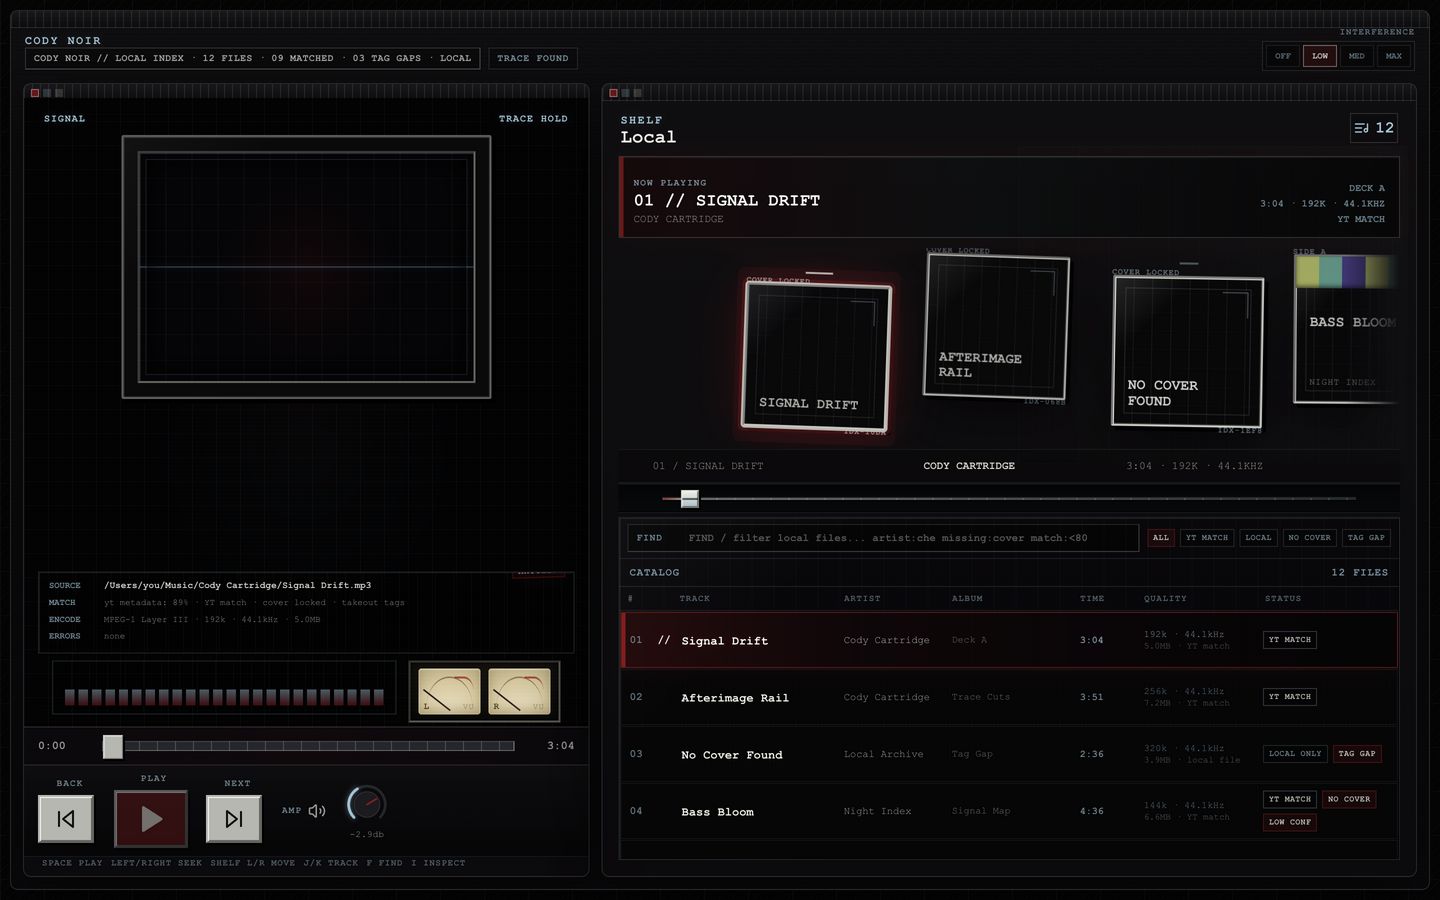
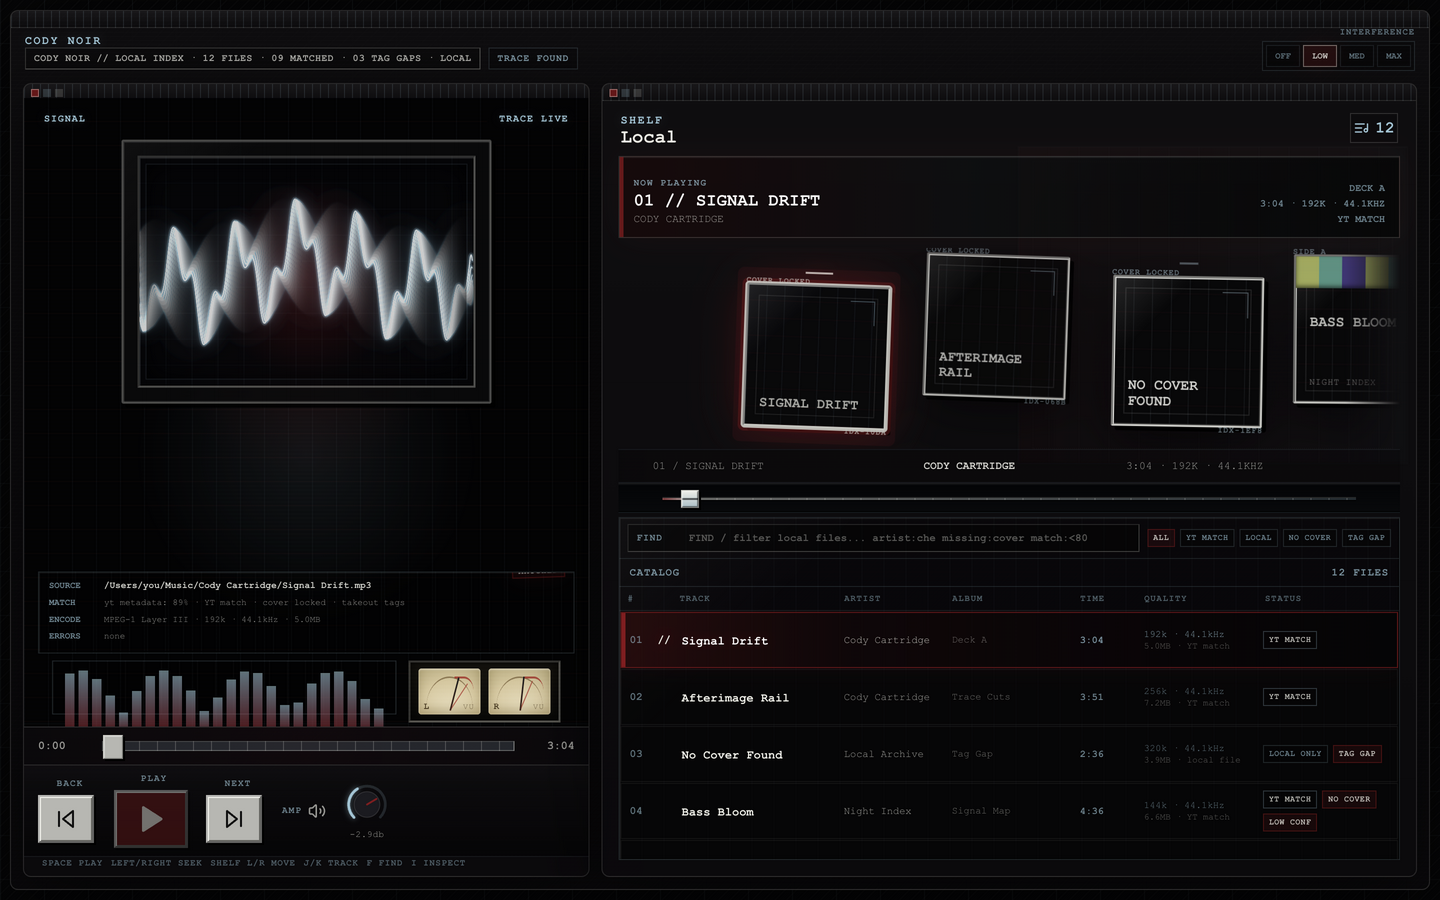
Reconcile store artifacts + showcase new hardware UI
- Rename scope `amplitude` var → `waveHeight` so check:app-privacy's
  analytics-SDK guard (matches /amplitude/i) stops false-positiving.
- Listing (APP_STORE_LISTING.md): feature the live reactive oscilloscope,
  analog VU meters, rotary amp knob, and cassette labels in promotional
  text / description / features / keywords (all within field limits).
- Add store-poster mode (store-poster=1): paints a representative phosphor
  trace + deflected VU into the paused demo so marketing screenshots show
  the reactive hardware. Kept behind its own flag so smoke:store (store-demo
  only) is unaffected; poster surface reads TRACE LIVE for coherence.
- Screenshot capture + checker updated to use store-poster=1; regenerated
  all three 1440x900 screenshots.
- Regenerated packet / copy-map / review-brief / blocker report.

Verification: build clean; smoke:store 4/4; smoke:a11y 10/10; app-privacy
56/0; artifact-privacy 22/0; electron-security 52/0; check:store-copy 49/0;
check:screenshots 56/0. Blockers unchanged at 17 (all account/machine-side).

Changed region(s): [[0.0938, 0.2178, 0.3438, 0.4667], [0.0938, 0.1244, 0.3438, 0.1867], [0.0312, 0.7467, 0.2812, 0.8089]]

diff --git a/src/App.tsx b/src/App.tsx
@@ -161,6 +161,17 @@ function isStoreDemoMode() {
   return new URLSearchParams(window.location.search).get("store-demo") === "1";
 }
 
+// Marketing-only poster mode: paints a representative live scope + VU into the
+// paused store-demo so screenshots showcase the reactive hardware. Kept behind
+// its own flag so the store smoke (store-demo=1, no poster) is unaffected.
+function isStorePosterMode() {
+  if (typeof window === "undefined") {
+    return false;
+  }
+
+  return new URLSearchParams(window.location.search).get("store-poster") === "1";
+}
+
 function getStoreDemoShelf(): ShelfView {
   if (typeof window === "undefined") {
     return "library";
@@ -1166,6 +1177,7 @@ function VuMeter({ containerRef }: { containerRef: React.RefObject<HTMLDivElemen
 
 function App() {
   const storeDemoMode = isStoreDemoMode();
+  const storePosterMode = isStorePosterMode();
   const audioRef = useRef<HTMLAudioElement | null>(null);
   const analysisCacheRef = useRef<Map<string, Promise<TrackAnalysis> | TrackAnalysis>>(new Map());
   const audioContextRef = useRef<AudioContext | null>(null);
@@ -1709,6 +1721,58 @@ function App() {
     stopVisualizerFrame();
   }, [isPlaying, reducedMotion]);
 
+  // Store-poster: build a representative phosphor trace + deflected VU so
+  // marketing screenshots show the reactive hardware even with no audio.
+  useEffect(() => {
+    if (!isStorePosterMode()) {
+      return undefined;
+    }
+
+    let frame = 0;
+    let rafId: number | null = null;
+    const wave = new Uint8Array(2048);
+
+    const render = () => {
+      for (let index = 0; index < wave.length; index += 1) {
+        const t = index / wave.length;
+        const value =
+          Math.sin(t * Math.PI * 11 + frame * 0.22) * 0.5 +
+          Math.sin(t * Math.PI * 33 + frame * 0.4) * 0.26 +
+          Math.sin(t * Math.PI * 3) * 0.2;
+        wave[index] = Math.max(0, Math.min(255, Math.round(128 + value * 96)));
+      }
+
+      drawScopeTrace(wave, 0.55, frame % 12 === 0 ? 1 : 0.35);
+      writeBassVars(0.5, 0.35);
+      const vu = vuStateRef.current;
+      vu.l = 0.64;
+      vu.r = 0.56;
+      vu.peakHoldL = 0.82;
+      vu.peakHoldR = 0.72;
+      writeVuNeedles();
+      writeMeterLevels(
+        Array.from({ length: 24 }, (_, index) => 20 + Math.round(58 * Math.abs(Math.sin(index * 0.5 + 1.2))))
+      );
+
+      frame += 1;
+      if (frame < 34) {
+        rafId = window.requestAnimationFrame(render);
+      }
+    };
+
+    const startTimer = window.setTimeout(() => {
+      rafId = window.requestAnimationFrame(render);
+    }, 80);
+
+    return () => {
+      window.clearTimeout(startTimer);
+      if (rafId !== null) {
+        window.cancelAnimationFrame(rafId);
+      }
+    };
+    // eslint-disable-next-line react-hooks/exhaustive-deps
+  }, []);
+
   useEffect(() => {
     return () => {
       stopVisualizerFrame();
@@ -2233,15 +2297,15 @@ function App() {
     }
 
     const points = 140;
-    const amplitude = height * (0.4 + bass * 0.12);
+    const waveHeight = height * (0.4 + bass * 0.12);
     const stride = wave.length / points;
     const path: Array<[number, number]> = [];
 
     for (let index = 0; index <= points; index += 1) {
       const sample = ((wave[Math.floor(index * stride)] ?? 128) - 128) / 128;
-      const smear = shuttle > 0 ? (((index * 53) % 17) / 17 - 0.5) * shuttle * amplitude * 0.5 : 0;
+      const smear = shuttle > 0 ? (((index * 53) % 17) / 17 - 0.5) * shuttle * waveHeight * 0.5 : 0;
       const x = (index / points) * width;
-      const y = middle + sample * amplitude + smear;
+      const y = middle + sample * waveHeight + smear;
       path.push([x, y]);
     }
 
@@ -3081,11 +3145,11 @@ function App() {
             <div className="crt-window">
               <div className="screen-status">
                 <span>{currentTrack ? "SIGNAL" : "STANDBY"}</span>
-                <span>{isPlaying ? "TRACE LIVE" : "TRACE HOLD"}</span>
+                <span>{isPlaying || storePosterMode ? "TRACE LIVE" : "TRACE HOLD"}</span>
               </div>
 
               <div
-                className={`cartridge-art ${isPlaying ? "powered" : ""} ${currentTrack ? "has-track" : "is-empty"} ${
+                className={`cartridge-art ${isPlaying || storePosterMode ? "powered" : ""} ${currentTrack ? "has-track" : "is-empty"} ${
                   cartridgeSwap ? `is-${cartridgeSwap}` : ""
                 }`}
                 data-wear={currentWearTier > 0 ? currentWearTier : undefined}

diff --git a/app-store-assets/RELEASE_BLOCKERS.md b/app-store-assets/RELEASE_BLOCKERS.md
@@ -6,7 +6,7 @@ This report intentionally redacts contact values and signing identity details. U
 
 ## Summary
 
-- Generated: 2026-07-02T22:38:06.884Z
+- Generated: 2026-07-03T00:46:20.614Z
 - App: Cody Cartridge
 - Bundle ID: `com.sachittumuluri.codycartridge`
 - Version: 0.1.0
@@ -57,7 +57,7 @@ This report intentionally redacts contact values and signing identity details. U
 | Generated Public Site | site-publish-values-ready | release-machine | siteUrl=placeholder supportEmail=placeholder | Set real CODY_SITE_URL and CODY_SUPPORT_EMAIL, then run npm run site:store. |
 | Generated Public Site | archive-no-placeholders | release-machine | placeholder files: robots.txt, sitemap.xml | Run npm run site:archive after generating the site with real public values. |
 | Signing And MAS Package | mas-signing-strict | release-machine | strict check failed · 4 failure(s) · 0 warning(s) | Install Apple Distribution/Mac App Distribution plus Mac Installer Distribution identities and a matching macOS/Mac App Store provisioning profile, then run npm run check:mas-signing -- --strict. |
-| Signing And MAS Package | mas-package-strict | release-machine | strict check failed · 3 failure(s) · 0 warning(s) | Run npm run dist:mas on the signed release machine, then npm run check:mas-package -- --strict to verify the app bundle, signed current-version installer package, signature, embedded provisioning profile, and MAS entitlements. |
+| Signing And MAS Package | mas-package-strict | release-machine | strict check failed · 1 failure(s) · 0 warning(s) | Run npm run dist:mas on the signed release machine, then npm run check:mas-package -- --strict to verify the app bundle, signed current-version installer package, signature, embedded provisioning profile, and MAS entitlements. |
 | Submission Gates | public-release-sync-strict | release-machine | strict check failed · 6 failure(s) · 0 warning(s) | Set real CODY_* values, then run npm run site:store, npm run site:archive, npm run packet:store, npm run review-brief:store, npm run copy-map:store, and npm run check:public-release-sync -- --strict. |
 | Submission Gates | upload-tooling-strict | release-machine | strict check failed · 2 failure(s) · 3 warning(s) | Install Transporter from the Mac App Store or full Xcode command-line upload tools, run npm run dist:mas, verify the signed current-version package with npm run check:mas-package -- --strict, then run npm run check:upload-tooling -- --strict. |
 | Submission Gates | upload-credentials-strict | release-machine | strict check failed · 3 failure(s) · 0 warning(s) | Run npm run install:asc-key -- --key-id <asc-key-id> --issuer-id <asc-issuer-id> --file /path/to/AuthKey_<key-id>.p8 --dry-run, install the key outside the project if validation passes, export ASC_KEY_ID and ASC_ISSUER_ID, then run npm run check:upload-credentials -- --strict. |
@@ -82,7 +82,7 @@ This report intentionally redacts contact values and signing identity details. U
 | Generated Public Site | pass | Public site archive exists | archive exists | Run npm run site:archive after rebuilding the public site. |
 | Generated Public Site | blocked | Public site archive has no publish placeholders | placeholder files: robots.txt, sitemap.xml | Run npm run site:archive after generating the site with real public values. |
 | Signing And MAS Package | blocked | MAS signing assets are installed | strict check failed · 4 failure(s) · 0 warning(s) No valid code-signing identities found in the keychain; Missing Apple Distribution, Mac App Distribution, or 3rd Party Mac Developer Application identity; Missing Mac Installer Distribution or 3rd Party Mac Developer Installer identity for final MAS package export; No installed provisioning profiles found | Install Apple Distribution/Mac App Distribution plus Mac Installer Distribution identities and a matching macOS/Mac App Store provisioning profile, then run npm run check:mas-signing -- --strict. |
-| Signing And MAS Package | blocked | Signed MAS package boundary passes | strict check failed · 3 failure(s) · 0 warning(s) Packaged MAS app does not contain Contents/embedded.provisionprofile; No MAS upload .pkg artifact found in dist; Transporter upload expects a signed current-version installer package; Packaged MAS app code signature does not verify | Run npm run dist:mas on the signed release machine, then npm run check:mas-package -- --strict to verify the app bundle, signed current-version installer package, signature, embedded provisioning profile, and MAS entitlements. |
+| Signing And MAS Package | blocked | Signed MAS package boundary passes | strict check failed · 1 failure(s) · 0 warning(s) MAS app bundle is missing at dist/mas-arm64/Cody Cartridge.app; run npm run dist:mas on the release machine before upload. | Run npm run dist:mas on the signed release machine, then npm run check:mas-package -- --strict to verify the app bundle, signed current-version installer package, signature, embedded provisioning profile, and MAS entitlements. |
 | Submission Gates | pass | Export compliance prep is current | strict check passed · 0 failure(s) · 0 warning(s) | Run npm run export-compliance:store, npm run packet:store, then npm run check:export-compliance. |
 | Submission Gates | blocked | Generated public release values are synced | strict check failed · 6 failure(s) · 0 warning(s) CODY_SITE_URL is missing, placeholder, or invalid.; CODY_SUPPORT_EMAIL is missing, placeholder, or invalid.; CODY_REVIEW_CONTACT_NAME is missing, placeholder, or invalid.; CODY_REVIEW_CONTACT_EMAIL is missing, placeholder, or invalid.; CODY_REVIEW_CONTACT_PHONE is missing, placeholder, or invalid.; Public release sync skipped until all CODY_* release values are configured. | Set real CODY_* values, then run npm run site:store, npm run site:archive, npm run packet:store, npm run review-brief:store, npm run copy-map:store, and npm run check:public-release-sync -- --strict. |
 | Submission Gates | blocked | App Store upload tooling and MAS package are available | strict check failed · 2 failure(s) · 3 warning(s) No Transporter app, altool, or iTMSTransporter upload path is available; No MAS .pkg upload artifact found in dist; run npm run dist:mas on the release machine before upload | Install Transporter from the Mac App Store or full Xcode command-line upload tools, run npm run dist:mas, verify the signed current-version package with npm run check:mas-package -- --strict, then run npm run check:upload-tooling -- --strict. |

diff --git a/app-store-assets/APP_STORE_CONNECT_COPY_MAP.md b/app-store-assets/APP_STORE_CONNECT_COPY_MAP.md
@@ -172,9 +172,9 @@ Commands:
 | --- | --- | --- | --- | --- | --- | --- |
 | Product Page | Name | Yes | ready | 14/30 characters | `APP_STORE_CONNECT_FIELDS.json productPage.name` | Cody Cartridge |
 | Product Page | Subtitle | Yes | ready | 27/30 characters | `APP_STORE_CONNECT_FIELDS.json productPage.subtitle` | Local music, signal mapped. |
-| Product Page | Promotional Text | Yes | ready | 136/170 characters | `APP_STORE_CONNECT_FIELDS.json productPage.promotionalText` | Turn your own music files into a visual archive: album art, metadata, signal maps, bass-reactive panels, and a hardwa... |
-| Product Page | Description | Yes | ready | 593/4000 characters | `APP_STORE_CONNECT_FIELDS.json productPage.description` | Cody Cartridge is a local-first music player for people who want their personal music library to feel like a found-ob... |
-| Product Page | Keywords | Yes | ready | 70/100 bytes | `APP_STORE_CONNECT_FIELDS.json productPage.keywords` | music,player,local,audio,mp3,album,library,archive,cassette,visualizer |
+| Product Page | Promotional Text | Yes | ready | 150/170 characters | `APP_STORE_CONNECT_FIELDS.json productPage.promotionalText` | Play your own music through a hardware-style deck: a live reactive oscilloscope, analog VU meters, a rotary amp knob,... |
+| Product Page | Description | Yes | ready | 937/4000 characters | `APP_STORE_CONNECT_FIELDS.json productPage.description` | Cody Cartridge is a local-first music player for people who want their personal music library to feel like a found-ob... |
+| Product Page | Keywords | Yes | ready | 81/100 bytes | `APP_STORE_CONNECT_FIELDS.json productPage.keywords` | music,player,local,audio,mp3,album,library,visualizer,cassette,oscilloscope,retro |
 | Product Page | Category | Yes | ready | - | `APP_STORE_CONNECT_FIELDS.json productPage.category` | Music |
 | Product Page | Support URL | Yes | blocker | - | `APP_STORE_CONNECT_FIELDS.json productPage.supportUrl` | supportURL=placeholder |
 | Product Page | Privacy Policy URL | Yes | blocker | - | `APP_STORE_CONNECT_FIELDS.json productPage.privacyPolicyUrl` | privacyPolicyURL=placeholder |
@@ -225,7 +225,7 @@ Local music, signal mapped.
 - Source: `APP_STORE_CONNECT_FIELDS.json productPage.promotionalText`
 
 ```text
-Turn your own music files into a visual archive: album art, metadata, signal maps, bass-reactive panels, and a hardware-inspired player.
+Play your own music through a hardware-style deck: a live reactive oscilloscope, analog VU meters, a rotary amp knob, album art, and Takeout metadata.
 ```
 
 ### Product Page / Description
@@ -237,7 +237,9 @@ Turn your own music files into a visual archive: album art, metadata, signal map
 ```text
 Cody Cartridge is a local-first music player for people who want their personal music library to feel like a found-object archive.
 
-Import audio files you already own, read embedded artwork and tags, optionally match your library against your own YouTube Music Takeout CSV export, and browse everything through a visual shelf built around album covers, signal maps, and subtle audio-reactive motion.
+Import audio files you already own, read embedded artwork and tags, optionally match your library against your own YouTube Music Takeout CSV export, and browse everything through a visual shelf built around album covers, cartridge labels, and subtle audio-reactive motion.
+
+Playback happens on a hardware-style deck: a live oscilloscope traces the actual waveform of whatever is playing, twin analog VU needles swing with the left and right channels, and a rotary amp knob shapes the level and low end. The visuals are driven by the real audio signal, not canned animation, so the panel breathes with the music.
 
 The app is designed for local playback and private organization. It does not download music, scrape streaming services, run ads, require an account, or send your listening library to a server.
 ```
@@ -249,7 +251,7 @@ The app is designed for local playback and private organization. It does not dow
 - Source: `APP_STORE_CONNECT_FIELDS.json productPage.keywords`
 
 ```text
-music,player,local,audio,mp3,album,library,archive,cassette,visualizer
+music,player,local,audio,mp3,album,library,visualizer,cassette,oscilloscope,retro
 ```
 
 ### Product Page / Category

diff --git a/app-store-assets/SUBMISSION_PACKET.md b/app-store-assets/SUBMISSION_PACKET.md
@@ -16,9 +16,9 @@ Generated from the current repo state by `npm run packet:store`.
 
 ### Field Audit
 
-- Promotional text: 136 / 170 characters
-- Description: 593 / 4000 characters
-- Keywords: 70 / 100 bytes
+- Promotional text: 150 / 170 characters
+- Description: 937 / 4000 characters
+- Keywords: 81 / 100 bytes
 - Review notes: 713 / 4000 characters
 - TestFlight beta app description: 219 characters
 - TestFlight What to Test: 1317 characters
@@ -33,7 +33,7 @@ Local music, signal mapped.
 ### Promotional Text
 
 ```text
-Turn your own music files into a visual archive: album art, metadata, signal maps, bass-reactive panels, and a hardware-inspired player.
+Play your own music through a hardware-style deck: a live reactive oscilloscope, analog VU meters, a rotary amp knob, album art, and Takeout metadata.
 ```
 
 ### Description
@@ -41,7 +41,9 @@ Turn your own music files into a visual archive: album art, metadata, signal map
 ```text
 Cody Cartridge is a local-first music player for people who want their personal music library to feel like a found-object archive.
 
-Import audio files you already own, read embedded artwork and tags, optionally match your library against your own YouTube Music Takeout CSV export, and browse everything through a visual shelf built around album covers, signal maps, and subtle audio-reactive motion.
+Import audio files you already own, read embedded artwork and tags, optionally match your library against your own YouTube Music Takeout CSV export, and browse everything through a visual shelf built around album covers, cartridge labels, and subtle audio-reactive motion.
+
+Playback happens on a hardware-style deck: a live oscilloscope traces the actual waveform of whatever is playing, twin analog VU needles swing with the left and right channels, and a rotary amp knob shapes the level and low end. The visuals are driven by the real audio signal, not canned animation, so the panel breathes with the music.
 
 The app is designed for local playback and private organization. It does not download music, scrape streaming services, run ads, require an account, or send your listening library to a server.
 ```
@@ -49,7 +51,7 @@ The app is designed for local playback and private organization. It does not dow
 ### Keywords
 
 ```text
-music,player,local,audio,mp3,album,library,archive,cassette,visualizer
+music,player,local,audio,mp3,album,library,visualizer,cassette,oscilloscope,retro
 ```
 
 ## URLs

diff --git a/app-store-assets/APP_STORE_LISTING.md b/app-store-assets/APP_STORE_LISTING.md
@@ -7,26 +7,30 @@ Name: Cody Cartridge
 Subtitle: Local music, signal mapped.
 
 Promotional text:
-Turn your own music files into a visual archive: album art, metadata, signal maps, bass-reactive panels, and a hardware-inspired player.
+Play your own music through a hardware-style deck: a live reactive oscilloscope, analog VU meters, a rotary amp knob, album art, and Takeout metadata.
 
 Description:
 Cody Cartridge is a local-first music player for people who want their personal music library to feel like a found-object archive.
 
-Import audio files you already own, read embedded artwork and tags, optionally match your library against your own YouTube Music Takeout CSV export, and browse everything through a visual shelf built around album covers, signal maps, and subtle audio-reactive motion.
+Import audio files you already own, read embedded artwork and tags, optionally match your library against your own YouTube Music Takeout CSV export, and browse everything through a visual shelf built around album covers, cartridge labels, and subtle audio-reactive motion.
+
+Playback happens on a hardware-style deck: a live oscilloscope traces the actual waveform of whatever is playing, twin analog VU needles swing with the left and right channels, and a rotary amp knob shapes the level and low end. The visuals are driven by the real audio signal, not canned animation, so the panel breathes with the music.
 
 The app is designed for local playback and private organization. It does not download music, scrape streaming services, run ads, require an account, or send your listening library to a server.
 
 Features:
 - Local audio playback for user-selected files
 - Embedded metadata and album artwork display
+- Live reactive oscilloscope driven by the real audio signal
+- Analog L/R VU meters with peak-hold
+- Rotary amp knob for level and low-end warmth
+- Generated cassette-style labels for tracks without cover art
 - Optional YouTube Music Takeout CSV matching
 - Missing-file and missing-cover visibility
-- Signal Map view for browsing tracks spatially
-- Bass-reactive visual panels and physical transport controls
 - Local-only state for library, volume, shelf, and playback preferences
 
 Keywords:
-music,player,local,audio,mp3,album,library,archive,cassette,visualizer
+music,player,local,audio,mp3,album,library,visualizer,cassette,oscilloscope,retro
 
 Category:
 Music
